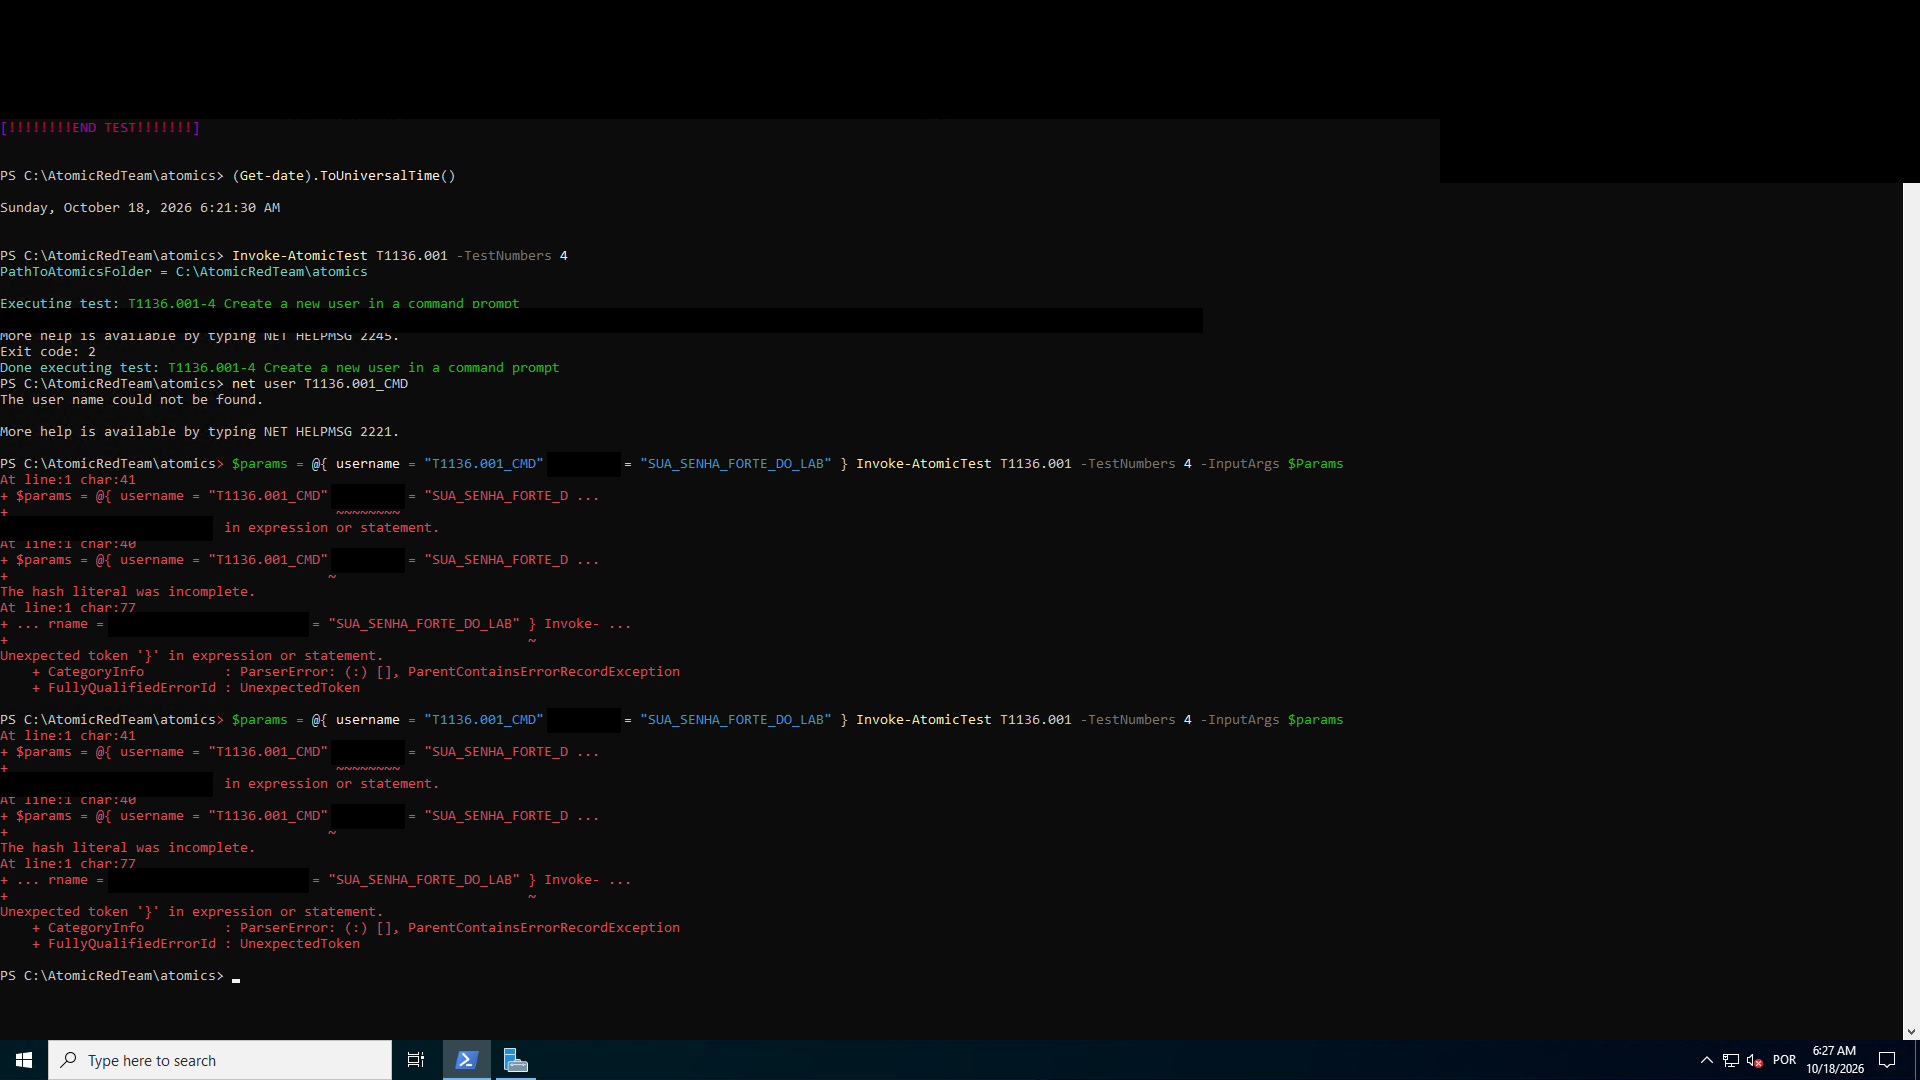
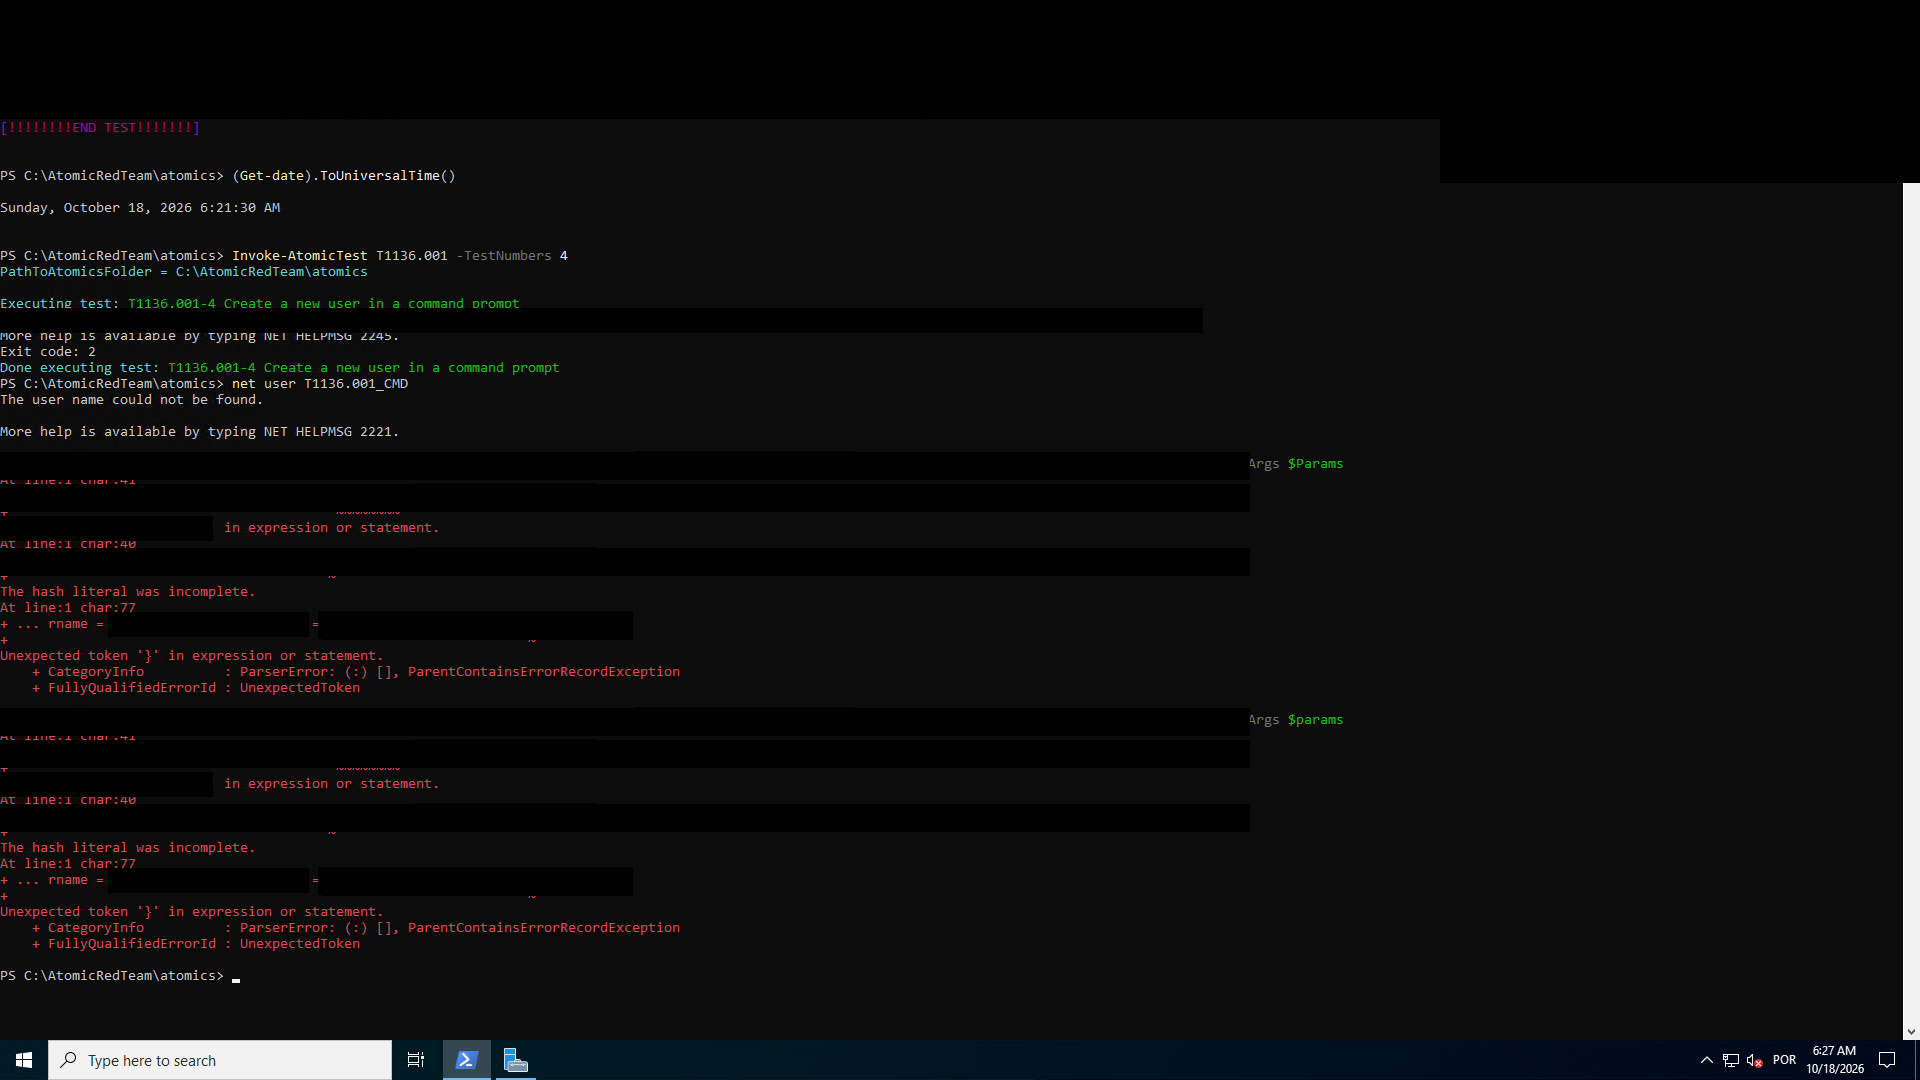
add: detalhando readme

diff --git a/README.md b/README.md
@@ -5,9 +5,8 @@ simulações controladas e detecções no Microsoft Sentinel para estudo da cert
 SC-200.
 
 > [!NOTE]
-> A execução do laboratório foi concluída e o ambiente Azure foi removido após o
-> término dos créditos gratuitos. Este repositório preserva a configuração histórica,
-> os resultados registrados e as evidências selecionadas.
+> O laboratório foi concluído e o ambiente Azure foi removido ao final da execução.
+> Este repositório reúne a configuração, os resultados e as evidências das atividades.
 
 ## Índice
 
@@ -18,7 +17,6 @@ SC-200.
 - [Investigação e análise](#investigação-e-análise)
 - [Como explorar o projeto](#como-explorar-o-projeto)
 - [Estrutura do repositório](#estrutura-do-repositório)
-- [Limites e cuidados](#limites-e-cuidados)
 
 ## Visão geral
 
@@ -69,8 +67,7 @@ telemetria, detecção e resposta.
 
 As simulações foram executadas em ambiente controlado para gerar sinais de
 autenticação, execução, persistência e alterações de privilégios. As oito regras
-analíticas abaixo foram testadas e validadas no Azure, conforme confirmação do
-responsável pelo laboratório.
+analíticas abaixo foram testadas e validadas no Azure durante o laboratório.
 
 | Comportamento | Regra analítica | Técnica ATT&CK no export |
 | --- | --- | --- |
@@ -85,8 +82,8 @@ responsável pelo laboratório.
 
 No export, as regras estão habilitadas, têm severidade Medium e frequência de
 execução de cinco minutos. Os períodos de consulta e os agrupamentos variam; os
-limiares de eventos estão nas consultas KQL. Os mapeamentos de entidades estão
-presentes apenas nas regras de SSH, RDP e falhas no Entra ID.
+limiares de eventos estão nas consultas KQL. As regras de SSH, RDP e falhas no
+Entra ID incluem mapeamentos de entidades.
 
 Consulte as [simulações](simulacoes/README.md), o [catálogo KQL](deteccoes/consultas-kql/README.md)
 e a [cobertura MITRE ATT&CK](documentacao/mitre-coverage.md). Algumas simulações
@@ -95,34 +92,34 @@ descrevem subtécnicas mais específicas do que as técnicas principais no expor
 ## Resultados registrados
 
 - **Validação RDP:** uma consulta encontrou sete falhas de logon em cerca de
-  23 segundos; o registro relata um incidente com seis alertas agrupados e
-  confirma as entidades IP e Host.
+  23 segundos; um incidente reuniu seis alertas agrupados e apresentou as entidades
+  IP e Host.
 - **Pasta de trabalho:** em uma janela de 30 dias, foram registrados 18 eventos
-  de falha SSH, 12 de RDP e 7 do Entra ID. São contagens de eventos, não de ataques
-  distintos.
+  de falha SSH, 12 de RDP e 7 do Entra ID.
 - **Coleta de processos:** a política de linha de comando do evento Windows 4688
   foi habilitada para enriquecer a telemetria de criação de processos.
-- **Tarefa agendada:** o evento 4698 esperado não foi observado; a validação usou
-  o evento 4688 e uma consulta local da tarefa.
+- **Tarefa agendada:** a criação foi observada no evento 4688 e confirmada por
+  consulta local à tarefa.
 
-O [registro do laboratório](documentacao/lab-build-record.md) reúne os resultados
-e suas limitações. O [diário de simulações](documentacao/attack-journal.md)
+O [registro do laboratório](documentacao/lab-build-record.md) reúne a implantação
+e os resultados observados. O [diário de simulações](documentacao/attack-journal.md)
 documenta os horários e os sinais observados, e a
 [pasta de trabalho](pastas-de-trabalho/soc-dashboard.md) detalha os painéis.
 
 ## Investigação e análise
 
-- **Incidentes:** o caso RDP registra a identificação do incidente, a severidade
-  e as entidades observadas. O agrupamento reduziu a duplicação de incidentes,
-  mas não eliminou alertas repetidos.
+- **Incidentes:** o caso RDP registra a identificação e a severidade do incidente,
+  além das entidades observadas. O agrupamento de alertas reduziu a duplicação de
+  incidentes.
 - **Busca de ameaças:** as [hipóteses de investigação](caca-ameacas/README.md)
-  são pontos de partida para buscas futuras, não resultados de uma caçada confirmada.
+  apresentam cenários para investigar comprometimento de contas, persistência por
+  tarefa agendada e uso suspeito de PowerShell.
 - **Phishing:** dois [casos sintéticos](phishing/README.md) exercitam a triagem
   de uma mensagem de coleta de credenciais e de uma fraude de fornecedor. O
   [script de análise](scripts/README.md) processa arquivos `.eml` sem executar
   seu conteúdo.
-- **Automação:** os diagramas de resposta são referências de fluxo; as evidências
-  disponíveis não comprovam a execução de um playbook.
+- **Automação:** o [fluxo de resposta a incidentes](diagramas/incident-response-flow.png)
+  apresenta uma referência visual para a investigação e o tratamento de incidentes.
 
 ## Como explorar o projeto
 
@@ -135,19 +132,20 @@ documenta os horários e os sinais observados, e a
 4. Consulte as [lições aprendidas](documentacao/lessons-learned.md) e os exercícios
    de [phishing](phishing/README.md) para complementar a investigação.
 
-Para uma eventual recriação, a [configuração do laboratório](documentacao/lab-setup.md)
-descreve a sequência histórica. O
+A [configuração do laboratório](documentacao/lab-setup.md) apresenta a sequência
+de implantação como referência para recriar o ambiente em recursos autorizados e
+isolados. O
 [export ARM das regras](deteccoes/regras-analiticas/azure-sentinel-analytics-rules.json)
-é parametrizado e requer um workspace. Antes de usá-lo, revise o registro da
-implantação, incluindo a divergência documentada na configuração da regra RDP, e
-valide as consultas e os campos no ambiente de destino.
+é parametrizado e requer um workspace. Antes de usá-lo, consulte a referência
+adotada para a regra RDP no [registro da implantação](documentacao/lab-build-record.md)
+e valide as consultas e os campos no ambiente de destino.
 
 ## Estrutura do repositório
 
 | Área | Conteúdo |
 | --- | --- |
 | [Documentação](documentacao/README.md) | Arquitetura, implantação, custos, solução de problemas e lições |
-| [Infraestrutura](infraestrutura/README.md) | Configuração histórica da rede, dos endpoints, do Entra ID e do Sentinel |
+| [Infraestrutura](infraestrutura/README.md) | Configuração da rede, dos endpoints, do Entra ID e do Sentinel |
 | [Simulações](simulacoes/README.md) | Exercícios controlados e sinais esperados |
 | [Detecções](deteccoes/README.md) | Consultas KQL, regras analíticas e ajustes |
 | [Busca de ameaças](caca-ameacas/README.md) | Hipóteses e consultas de referência |

diff --git a/evidencias/README.md b/evidencias/README.md
@@ -25,7 +25,9 @@ erros de execução e capturas sem relação clara com o laboratório.
 - `fase-0`: rede, NSGs, máquinas virtuais e configuração de acesso.
 - `fase-1`: Sentinel, conectores e validação da ingestão de telemetria.
 - `fase-2`: simulações controladas e eventos observados.
-- `fase-3`: regras analíticas, MITRE ATT&CK, incidentes e pastas de trabalho.
+- `fase-3`: regras analíticas, MITRE ATT&CK, incidentes e pastas de trabalho,
+  incluindo o [incidente RDP](fase-3/incidentes/incidente-deteccao-de-falhas-rdp.png)
+  e a [investigação SSH](fase-3/incidentes/incidente-investigacao-de-forca-bruta-ssh.png).
 - `fase-4`: sem capturas mantidas; a imagem disponível mostrava um incidente, mas não
   comprovava a execução de um playbook.
 - `fase-5`: uma captura de configurações do Defender for Cloud; ela não comprova que
@@ -40,3 +42,7 @@ Pastas sem capturas selecionadas não são mantidas apenas como marcadores vazio
 Os nomes descrevem o recurso, a consulta ou a etapa mostrada, sem incluir a data ou o
 horário da captura. Quando há mais de uma imagem sobre o mesmo tema, o nome destaca a
 diferença entre as telas, como o estado do conector ou o tipo de evento consultado.
+
+Nesta revisão, os valores de senha legíveis nas capturas do teste de conta local foram
+cobertos com tarjas opacas. O histórico Git remoto ainda pode conter as versões
+anteriores; a remoção dessas versões exige uma limpeza coordenada do histórico.
